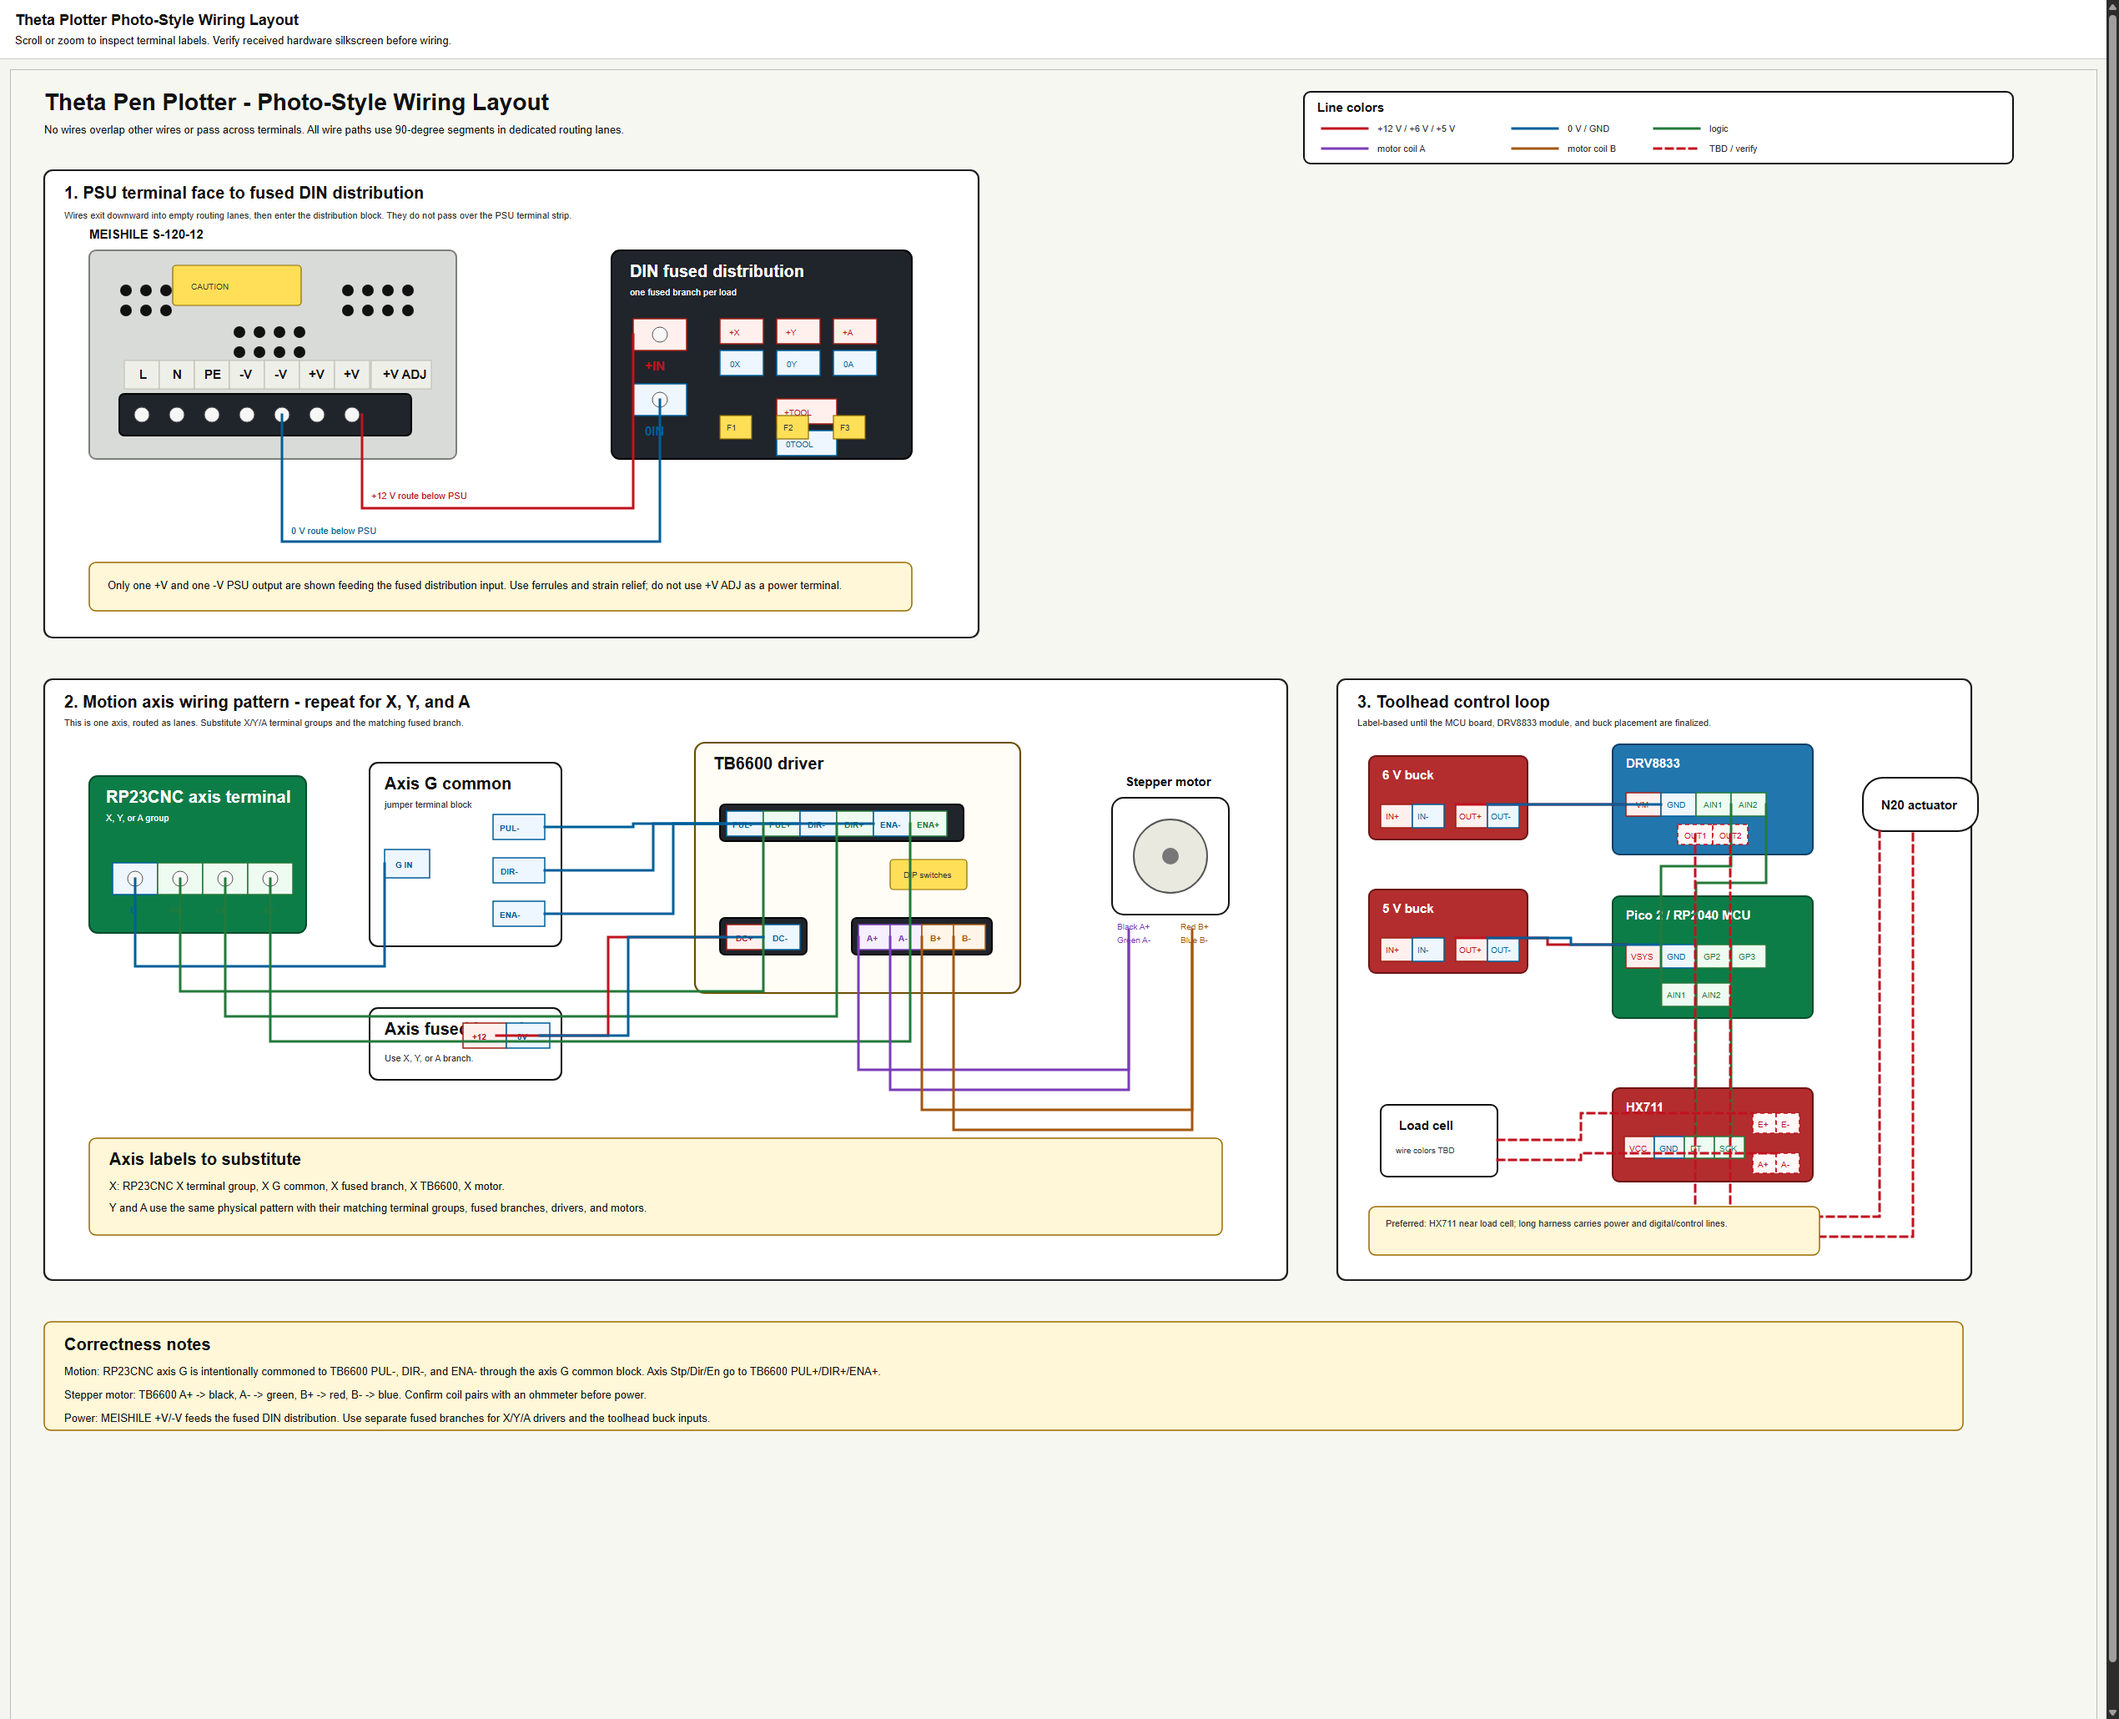
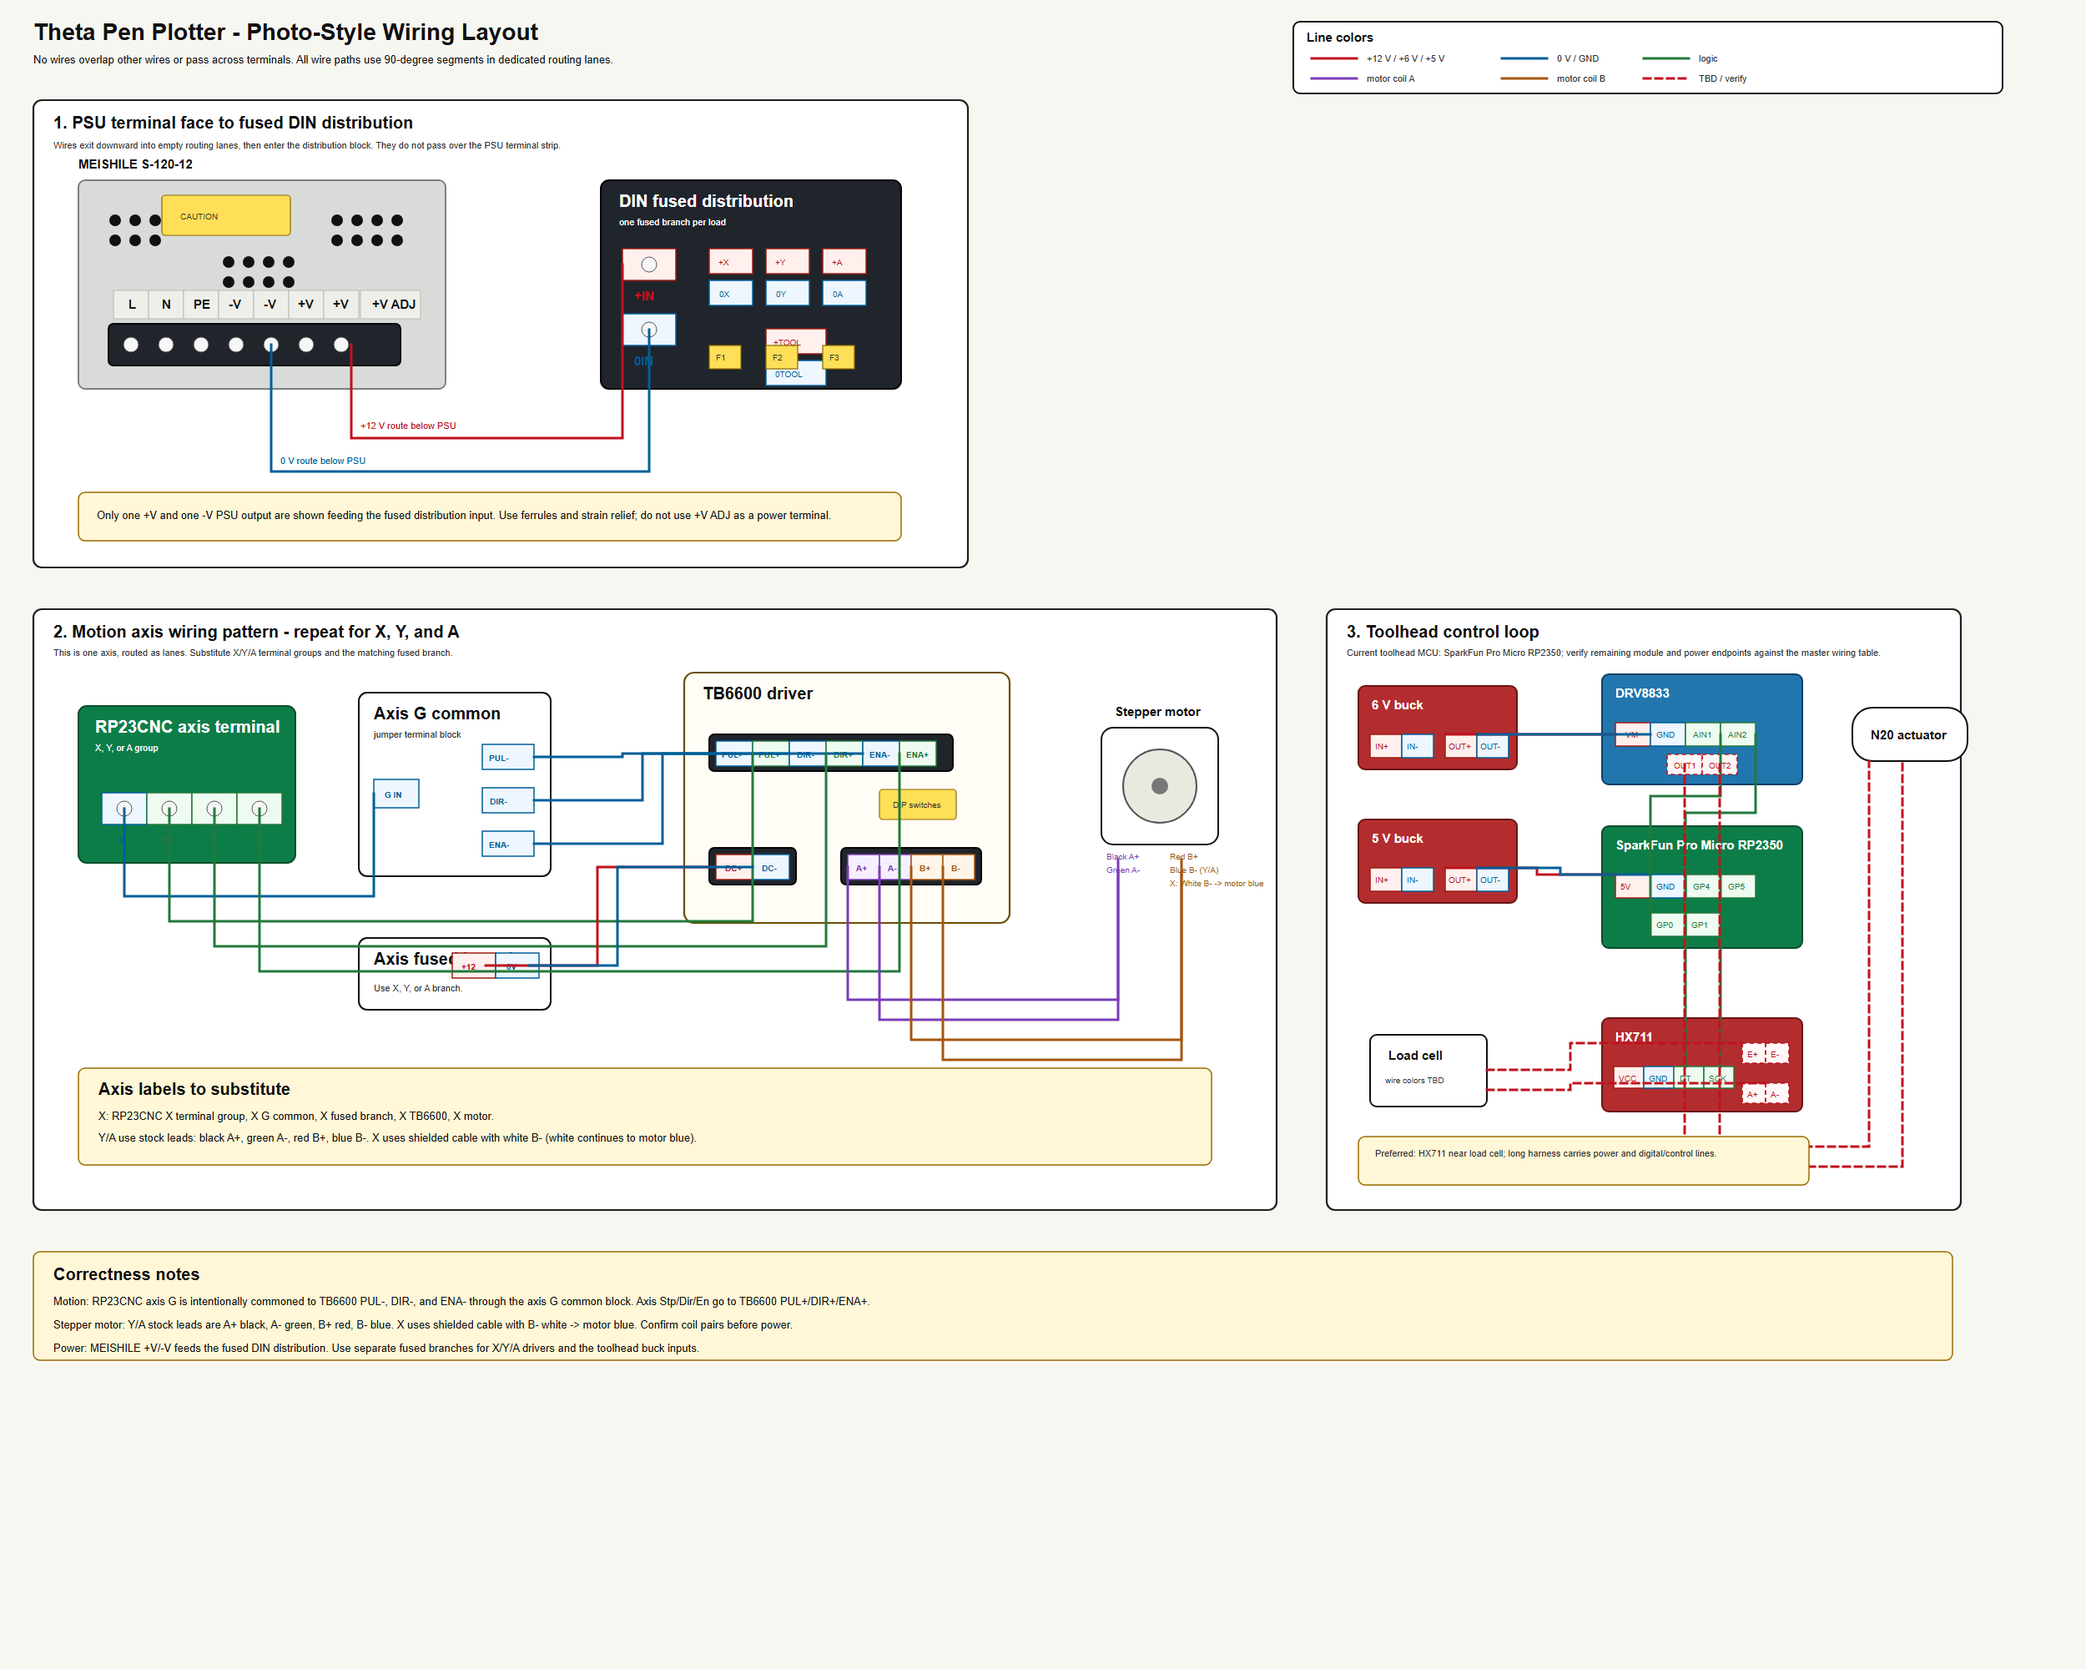
Correct axis motor cable colors in wiring diagrams

Changed region(s): [[0.0, 0.0, 0.936, 0.837], [0.624, 0.0, 1.0, 1.0]]

diff --git a/docs/full_wiring_diagram.html b/docs/full_wiring_diagram.html
@@ -191,7 +191,7 @@
 <body>
   <main>
     <h1>RP23CNC X/Y/Theta Plotter Wiring Diagram</h1>
-    <p class="subtitle">Single 12V supply with three TB6600-style external stepper drivers, STEPPERONLINE NEMA 17 motors, a 6V toolhead rail, and local 5V toolhead regulation.</p>
+    <p class="subtitle">Single 12V supply with three TB6600-style external stepper drivers, STEPPERONLINE NEMA 17 motors, a 6V toolhead rail, and local 5V toolhead regulation. X uses the shielded motor cable; Y and A retain the stock motor leads.</p>
     <article class="callout">
       <h2>Concept Only - Do Not Wire From This Diagram Alone</h2>
       <p>Terminal polarity, power distribution, and controller pin assignments are not fully verified. Use the continuously updated <a href="hardware/WIRING_TABLE.md">Master Wiring Table</a>; any connection still marked TBD must not be energized.</p>
@@ -208,7 +208,7 @@
     <section class="diagram" aria-label="Full wiring diagram">
       <svg viewBox="0 0 1160 820" role="img" aria-labelledby="diagram-title diagram-desc">
         <title id="diagram-title">RP23CNC plotter wiring diagram</title>
-        <desc id="diagram-desc">A wiring diagram showing a 12V power supply feeding the RP23CNC controller, three TB6600 stepper drivers, a 6V toolhead buck, a local 5V regulator, and a DRV8833 pen actuator driver.</desc>
+        <desc id="diagram-desc">A wiring diagram showing a 12V power supply feeding the RP23CNC controller, three TB6600 stepper drivers, axis-specific motor cable colors, a 6V toolhead buck, a local 5V regulator, and a DRV8833 pen actuator driver.</desc>
 
         <defs>
           <marker id="arrow-power" markerWidth="8" markerHeight="8" refX="7" refY="4" orient="auto">
@@ -325,13 +325,13 @@
 
         <!-- Motor coil wiring -->
         <path class="wire motor" marker-end="url(#arrow-motor)" d="M990 148 H1018"></path>
-        <text class="label" x="996" y="136">Black A+, Green A-, Red B+, Blue B-</text>
+        <text class="label" x="996" y="136">X shielded: B- white -> motor blue</text>
 
         <path class="wire motor" marker-end="url(#arrow-motor)" d="M990 358 H1018"></path>
-        <text class="label" x="996" y="346">Black A+, Green A-, Red B+, Blue B-</text>
+        <text class="label" x="996" y="346">Y stock leads: B- blue</text>
 
         <path class="wire motor" marker-end="url(#arrow-motor)" d="M990 584 H1018"></path>
-        <text class="label" x="996" y="572">Black A+, Green A-, Red B+, Blue B-</text>
+        <text class="label" x="996" y="572">A stock leads: B- blue</text>
 
         <!-- Pen circuit -->
         <path class="wire pen" marker-end="url(#arrow-pen)" d="M640 264 H680 V720 H720"></path>
@@ -364,7 +364,7 @@
 
       <article class="callout">
         <h2>Stepper Motor Wiring</h2>
-        <p>The selected STEPPERONLINE 17HS15-1504S-X1 motors are 4-lead bipolar NEMA 17 steppers rated 1.5A/phase. Wire each motor to its TB6600 output as Black to A+, Green to A-, Red to B+, and Blue to B-.</p>
+        <p>The selected STEPPERONLINE 17HS15-1504S-X1 motors are 4-lead bipolar NEMA 17 steppers rated 1.5A/phase. Y and A retain the stock mapping: Black to A+, Green to A-, Red to B+, and Blue to B-. X uses the shielded replacement cable: Black to A+, Green to A-, Red to B+, and White to B-; the white cable conductor continues to the motor's blue lead.</p>
       </article>
 
       <article class="callout">

diff --git a/docs/changes/hardware/2026/2026-09-04-correct-axis-motor-cable-colors-in-diagrams.md b/docs/changes/hardware/2026/2026-09-04-correct-axis-motor-cable-colors-in-diagrams.md
@@ -1,0 +1,84 @@
+---
+id: HW-20260904-001
+date: 2026-09-04
+category: hardware
+affected_categories:
+  - hardware
+status: implemented
+components:
+  - plotter-wiring-schematic.svg
+  - plotter-photo-style-wiring.svg
+  - plotter-top-down-wiring-schematic.svg
+  - docs/full_wiring_diagram.html
+  - docs/hardware/WIRING_TABLE.md
+tags:
+  - stepper
+  - tb6600
+  - motor-cable
+  - wiring
+  - x-axis
+  - y-axis
+  - a-axis
+related:
+  - HW-20260823-003
+  - HW-20260823-002
+---
+
+# Correct axis-specific motor cable colors in diagrams
+
+## Summary
+
+Updated the visual wiring diagrams and rendered previews to distinguish the X
+axis's shielded motor cable from the stock Y and A motor leads.
+
+## Reason
+
+The diagrams previously repeated the stock `black/green/red/blue` labels for
+all three axes. That was misleading for X, whose replacement shielded cable
+uses a white conductor for cable-side `B-`; the white conductor is spliced to
+the motor's blue lead.
+
+## Implementation
+
+- X is labeled `A+ black`, `A- green`, `B+ red`, and `B- white`, with the
+  white-to-blue motor splice called out.
+- Y and A remain `A+ black`, `A- green`, `B+ red`, and `B- blue` using the
+  stock motor leads.
+- The full HTML diagram uses compact axis-specific labels, while the SVG
+  diagrams include the distinction in their motor blocks and notes.
+
+## Verification
+
+- Rendered `plotter-wiring-schematic.png`, `plotter-photo-style-wiring.png`,
+  and `plotter-top-down-wiring-schematic.png` from their updated SVG sources
+  with Chrome headless.
+- Visually inspected all three PNG previews for the X white label, the Y/A
+  blue labels, and the explanatory splice notes.
+- Rendered `docs/full_wiring_diagram.html` with Chrome headless and confirmed
+  the X/Y/A labels and updated callout text.
+- Parsed all three SVG sources as XML with the Python standard-library parser.
+
+## Struggles and rejected approaches
+
+The prior generic labels were retained only as a temporary conceptual view;
+they are not an acceptable representation of the installed X harness. No
+physical wiring was changed in this update, and no new cable colors were
+inferred beyond the project-owner clarification and the existing master-table
+record.
+
+## Risks and follow-up
+
+The diagrams remain explanatory; the master wiring table controls if a visual
+copy becomes stale. Final X phase continuity and motor-direction checks remain
+required before powered operation.
+
+## Files
+
+- `plotter-wiring-schematic.svg`: corrected X motor block and accessibility note.
+- `plotter-wiring-schematic.png`: regenerated preview.
+- `plotter-photo-style-wiring.svg`: added axis-specific color notes.
+- `plotter-photo-style-wiring.png`: regenerated preview.
+- `plotter-top-down-wiring-schematic.svg`: corrected X motor-lead block and caution note.
+- `plotter-top-down-wiring-schematic.png`: regenerated preview.
+- `docs/full_wiring_diagram.html`: corrected axis-specific labels and callout.
+- `docs/hardware/WIRING_TABLE.md`: recorded the diagram correction in the revision log.

diff --git a/docs/hardware/WIRING_TABLE.md b/docs/hardware/WIRING_TABLE.md
@@ -124,6 +124,12 @@ red/white for Phase B (white continues the motor's blue B- lead). Y and A use
 unshielded four-wire motor leads, with black/green as one coil and red/blue as
 the other.
 
+The visual wiring diagrams use the axis-specific cable-side labels: X shows
+`B-` as white because the shielded replacement cable's white conductor
+continues to the motor's blue lead; Y and A show the stock motor-side blue
+`B-` conductor. The table remains authoritative if a diagram is viewed out of
+date.
+
 | ID | From device | From terminal | To device | To terminal | Signal | Wire color | Status | Evidence/notes |
 |---|---|---|---|---|---|---|---|---|
 | XPH-001 | X TB6600 | `A+` | X motor | A+ lead | Phase A+ | Planned shielded motor run; black lead | partial | Owner hand-turn generated-voltage test, 2026-08-19: black/green is one coil; retain lead order pending M-01 direction check and shielded-run installation. |
@@ -258,6 +264,7 @@ must pass bench tests before being treated as final machine wiring.
 
 | Date | Revision | Change | Updated by | Related evidence |
 |---|---:|---|---|---|
+| 2026-09-04 | 4.4 | Corrected the visual wiring diagrams to show the axis-specific motor cable colors: X shielded-cable `B-` is white and continues to the motor's blue lead; Y and A retain stock blue `B-` leads. | Codex | Project-owner clarification; `HW-20260904-001` |
 | 2026-08-30 | 4.3 | Added planned toolhead LIFT-home microswitch input on `GP2`/`TOOL_GND`; terminals `1` and `3` are the intended COM/NO pair. | Codex | Owner terminal identification; T-01G planned |
 | 2026-08-22 | 3.5 | Documented the implemented dual-core readiness/threshold protocol and controller-resident centroid/A-registration macro. Reused all five routed control conductors; retained `LIMA` until F-08 authorizes controller-end retermination to `PRB`. | Codex | `RPSW-20260822-003`; source compile and macro validator only |
 | 2026-08-22 | 3.4 | Corrected stale separate-RP2040-adapter language: the installed SparkFun Pro Micro RP2350 toolhead controller owns both pen-pressure control and TMAG5273 magnetic sensing/output. No wiring changed. | Codex | `RPSW-20260822-002`; current GP27/GP28/GP29 wiring rows |

diff --git a/docs/project/ENGINEERING_LOG.md b/docs/project/ENGINEERING_LOG.md
@@ -185,6 +185,7 @@ Entry details remain only in the chronology.
 - [2026-09-03 - IMPLEMENTED - Recorded TB6600 signal and A-axis commissioning baseline](#elog-20260903-recorded-tb6600-signal-and-a-axis-commissioning-baseline)
 - [2026-09-03 - SUCCESS - Added opto-isolation presentation slide](#elog-20260903-added-opto-isolation-presentation-slide)
 - [2026-09-02 - SUCCESS - Set opening slide to full-bleed machine render](#elog-20260902-set-opening-slide-to-full-bleed-machine-render)
+- [2026-09-04 - IMPLEMENTED - Corrected axis-specific motor cable colors in diagrams](#elog-20260904-corrected-axis-specific-motor-cable-colors-in-diagrams)
 
 ### Testing and verification
 - [2026-08-06 13:42:00 -0500 - MIXED/OPEN - Recovered KiCad 10 routing into a KiCad 9 review board](#elog-20260806134200)
@@ -2517,3 +2518,19 @@ Add new entries at the top of the log below this line.
   was rendered and inspected, and `slides_test.py` passed for all 13 slides.
 - Next action: Run the deck in Slide Show mode on the classroom computer before
   presenting, to confirm display scaling and mouse-over navigation.
+
+<a id="elog-20260904-corrected-axis-specific-motor-cable-colors-in-diagrams"></a>
+### 🟩 2026-09-04 - IMPLEMENTED - Corrected axis-specific motor cable colors in diagrams
+
+- Status: documentation correction implemented; no physical wiring or motor
+  behavior changed.
+- Category: hardware, wiring, TB6600, X/Y/A.
+- Summary: Updated the straight-lane, photo-style, top-down, and full HTML
+  wiring views so X shows the shielded cable's white `B-` conductor continuing
+  to the motor's blue lead, while Y and A retain stock blue `B-` leads.
+- Reason: the former visual labels repeated the stock black/green/red/blue
+  mapping for every axis and therefore did not match the installed X harness.
+- Evidence: regenerated PNG previews were visually inspected; SVG sources
+  were parsed as XML; the authoritative table retains the same mapping.
+- Next action: complete final X phase-continuity and motor-direction checks
+  before treating the driver-to-motor paths as powered-verified.

diff --git a/docs/changes/hardware/README.md b/docs/changes/hardware/README.md
@@ -8,6 +8,7 @@ Newest changes appear first.
 <!-- BEGIN GENERATED CHANGES -->
 | Date | ID | Status | Summary | Tags |
 |---|---|---|---|---|
+| 2026-09-04 | `HW-20260904-001` | implemented | [Correct axis-specific motor cable colors in diagrams](2026/2026-09-04-correct-axis-motor-cable-colors-in-diagrams.md) | `stepper`, `tb6600`, `motor-cable`, `wiring`, `x-axis`, `y-axis`, `a-axis` |
 | 2026-09-03 | `RPSW-20260903-008` | implemented | [Add Opto-Isolation Presentation Slide](../rp23cnc-software/2026/2026-09-03-add-opto-isolation-presentation-slide.md) | `presentation`, `opto-isolation`, `wiring`, `p100` |
 | 2026-09-03 | `HW-20260903-003` | implemented | [Add mobile wiring-table view](2026/2026-09-03-add-mobile-wiring-table-view.md) | `wiring`, `mobile`, `documentation` |
 | 2026-09-03 | `HW-20260903-002` | implemented | [Land TB6600 power branches](2026/2026-09-03-land-tb6600-power-branches.md) | `tb6600`, `power-distribution`, `wiring`, `x-axis`, `y-axis`, `a-axis` |

diff --git a/docs/changes/INDEX.md b/docs/changes/INDEX.md
@@ -5,6 +5,7 @@ Newest changes appear first.
 <!-- BEGIN GENERATED CHANGES -->
 | Date | ID | Category | Status | Summary |
 |---|---|---|---|---|
+| 2026-09-04 | `HW-20260904-001` | hardware | implemented | [Correct axis-specific motor cable colors in diagrams](hardware/2026/2026-09-04-correct-axis-motor-cable-colors-in-diagrams.md) |
 | 2026-09-03 | `RPSW-20260903-008` | rp23cnc-software, hardware, windows-software | implemented | [Add Opto-Isolation Presentation Slide](rp23cnc-software/2026/2026-09-03-add-opto-isolation-presentation-slide.md) |
 | 2026-09-03 | `HW-20260903-003` | hardware | implemented | [Add mobile wiring-table view](hardware/2026/2026-09-03-add-mobile-wiring-table-view.md) |
 | 2026-09-03 | `HW-20260903-002` | hardware | implemented | [Land TB6600 power branches](hardware/2026/2026-09-03-land-tb6600-power-branches.md) |
